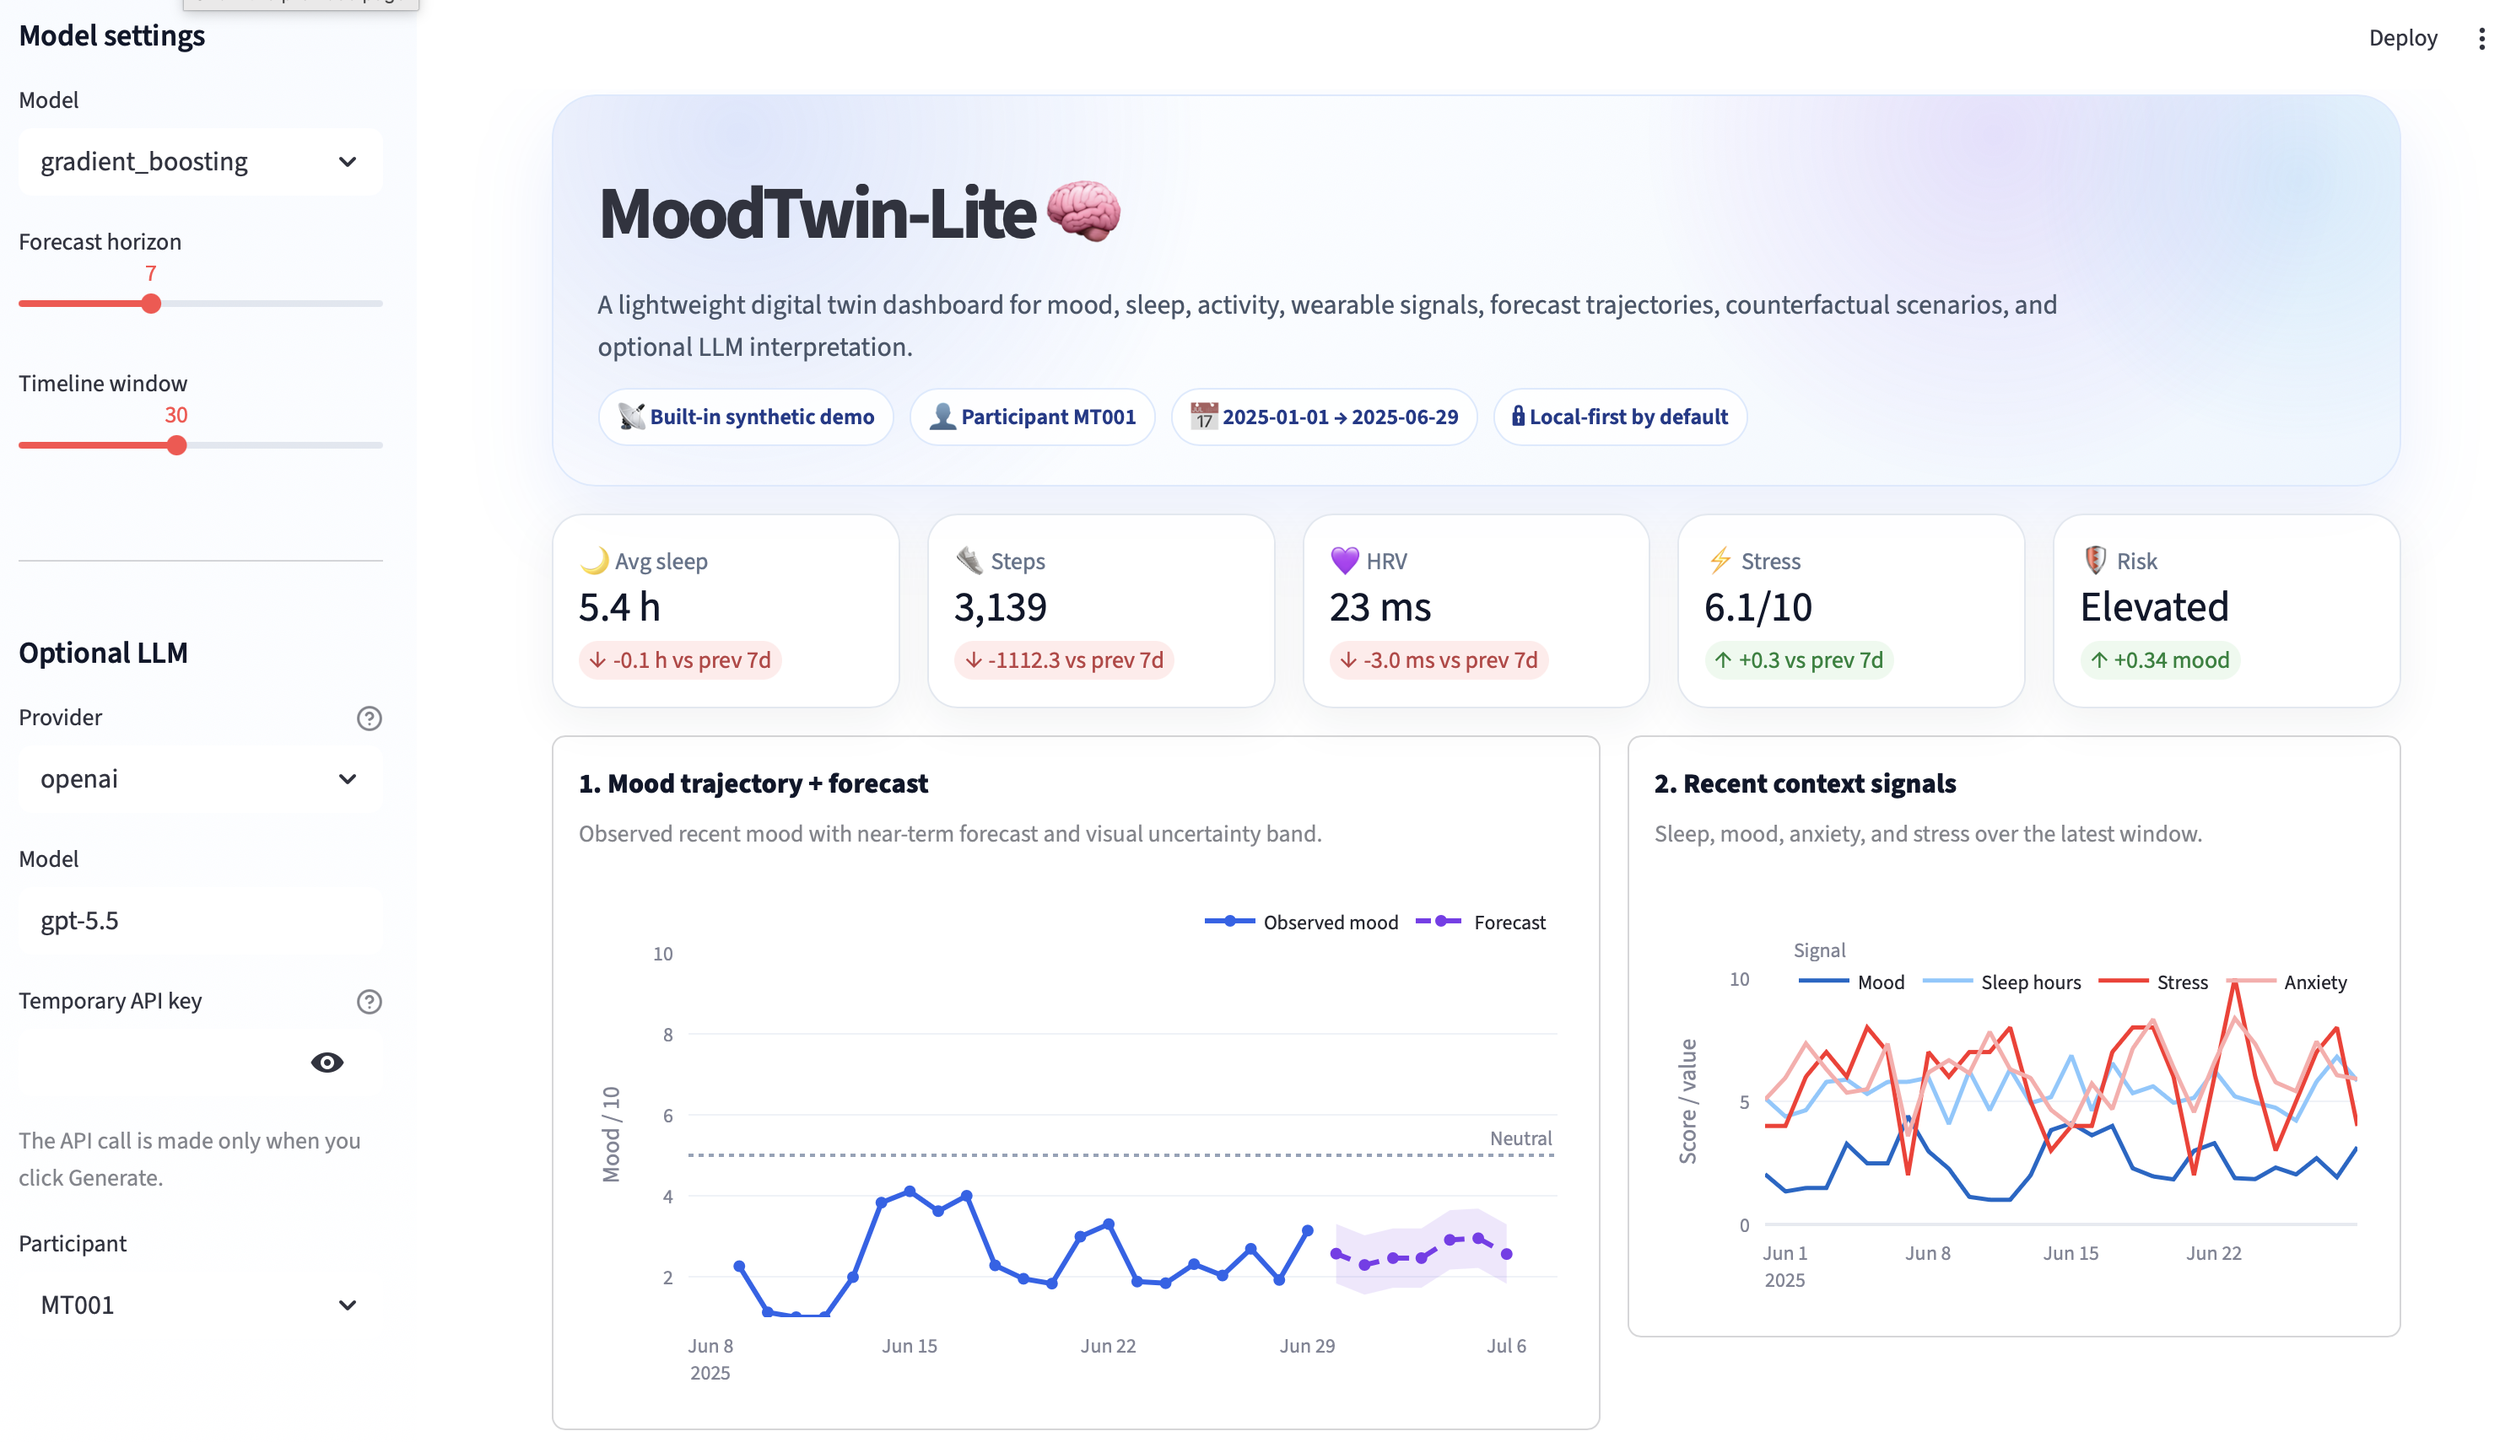
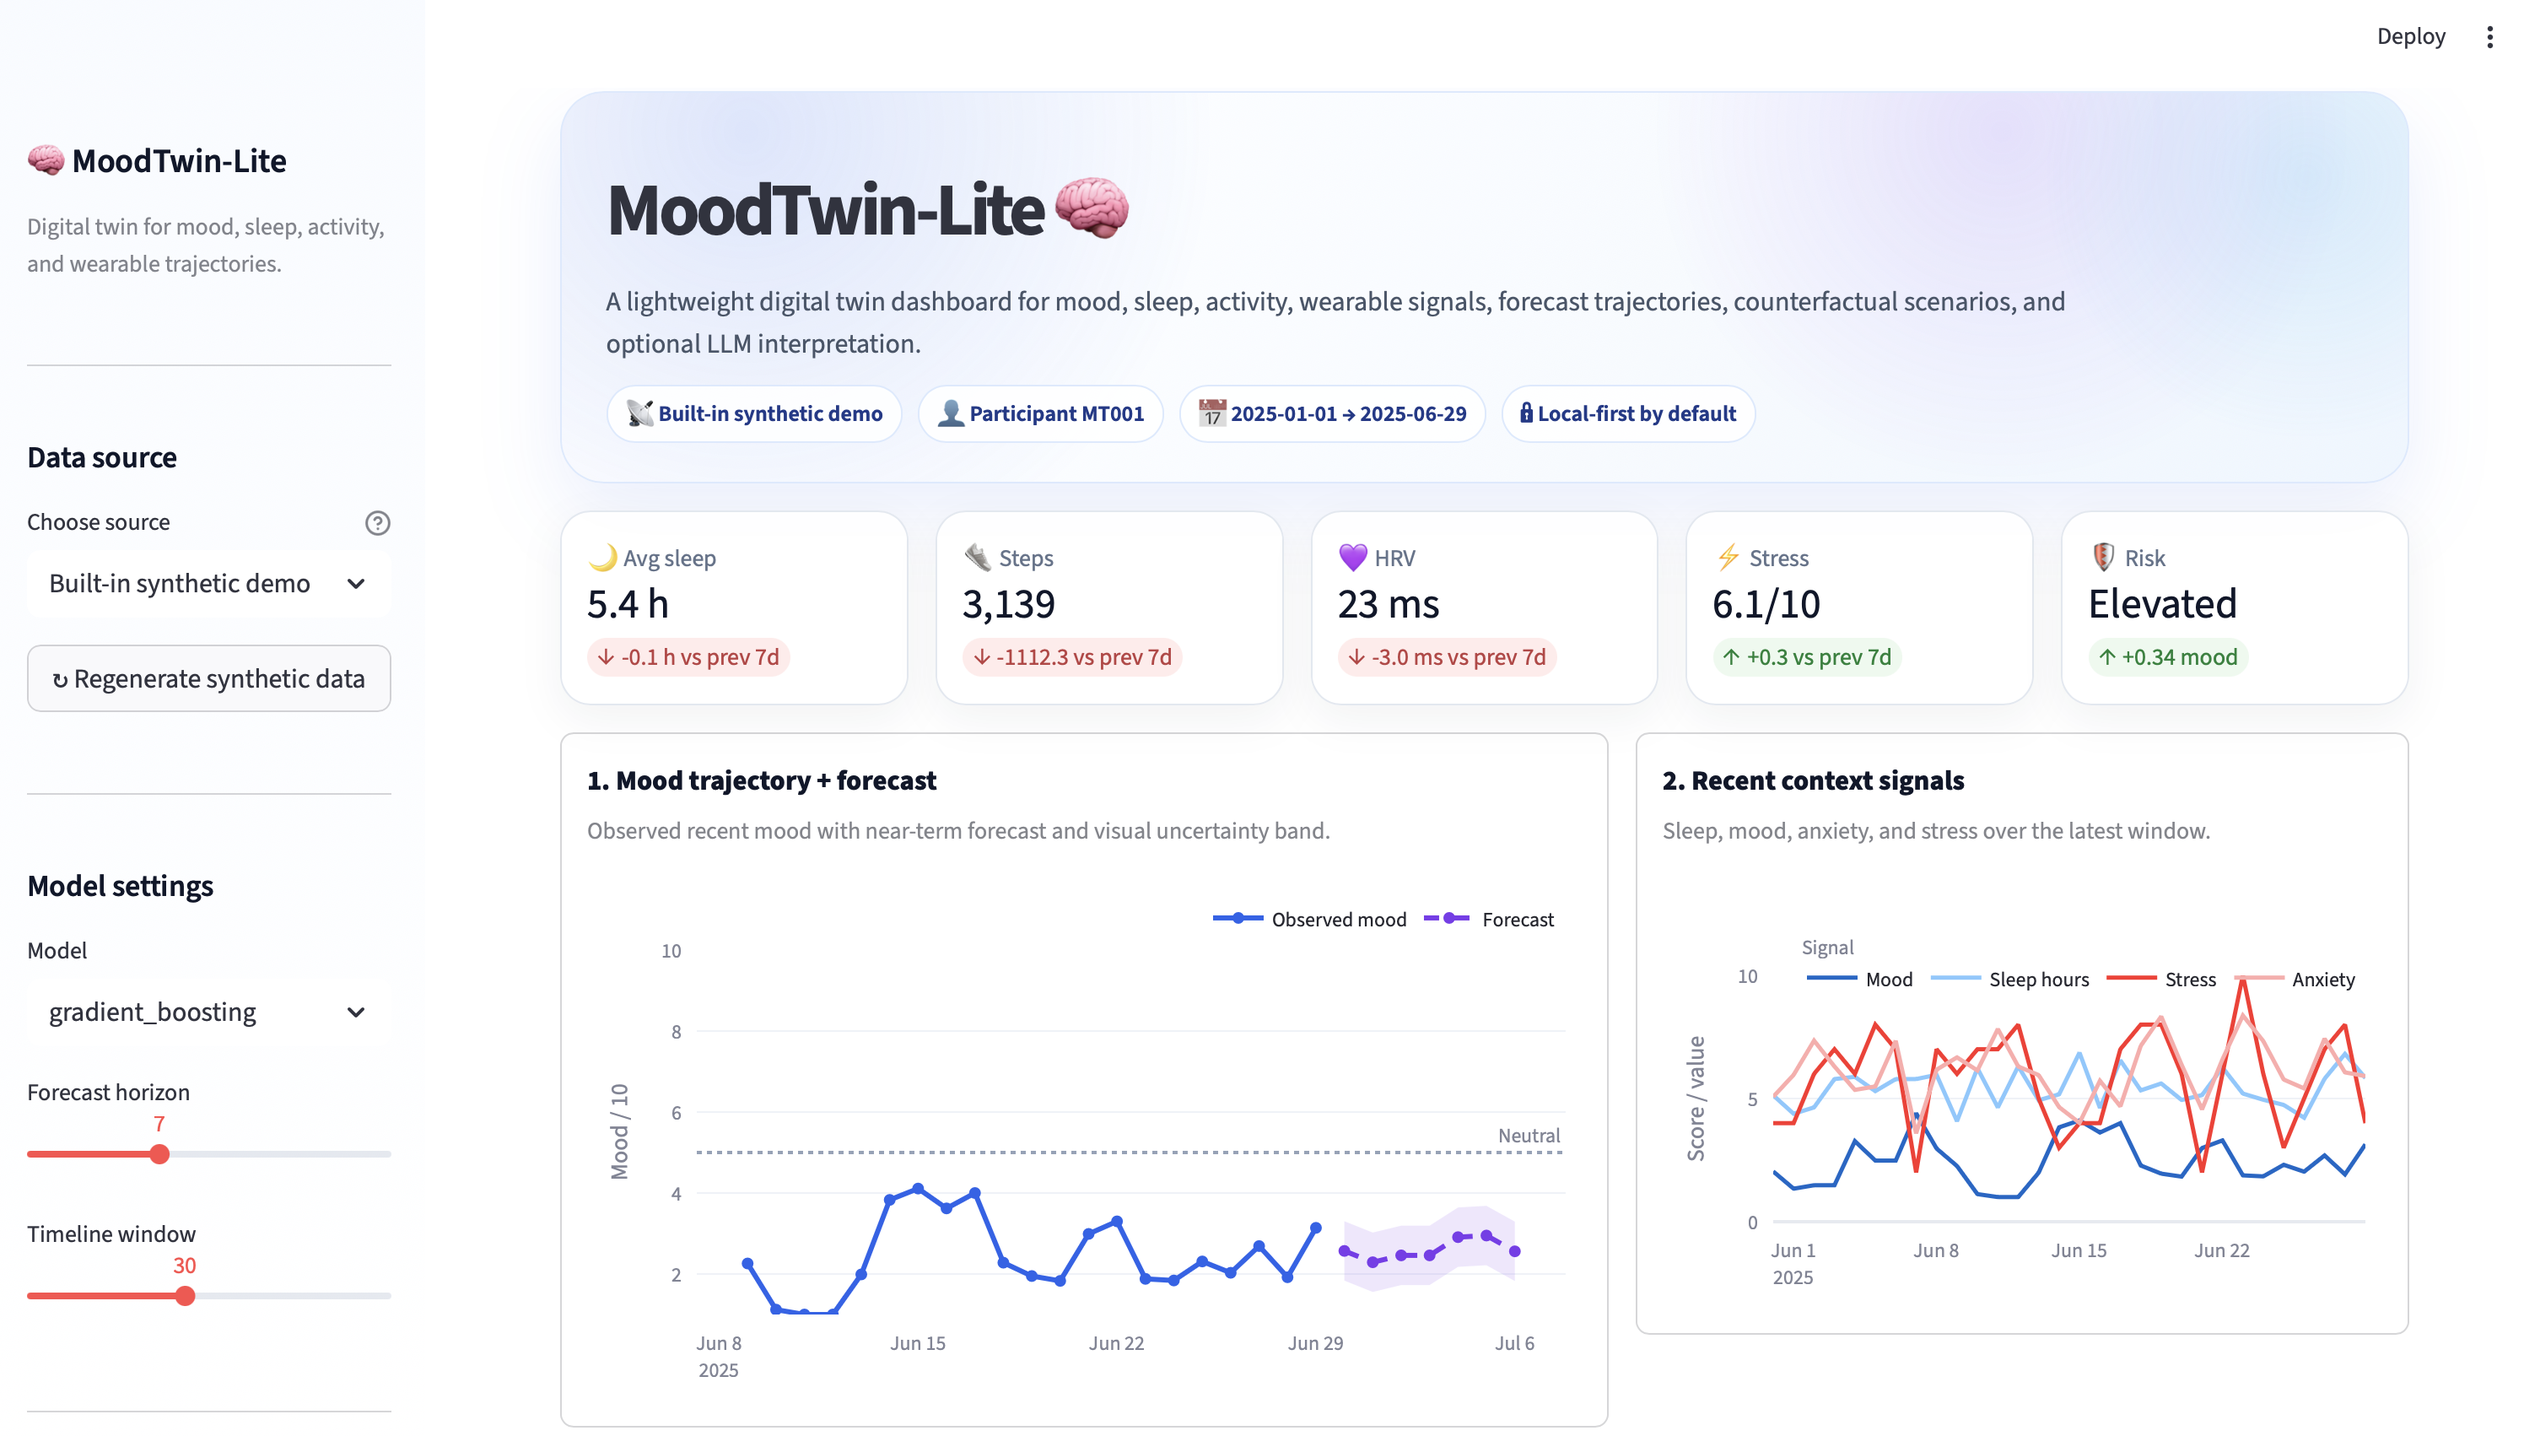
Update README screenshots

diff --git a/docs/IMPORT_GUIDE.md b/docs/IMPORT_GUIDE.md
@@ -25,6 +25,28 @@ Regenerate the realistic examples with:
 python scripts/generate_demo_exports.py
 ```
 
+
+## Upload from the Streamlit app
+
+You do not need to use the command line for personal files. In the sidebar, choose one of:
+
+```text
+Upload MoodTwin schema CSV
+Upload Oura daily CSV
+Upload Fitbit daily CSV/JSON
+Upload Apple Health export.xml
+```
+
+The dashboard analyzes the uploaded file immediately in the current session. For Oura, Fitbit, and Apple Health uploads, you can also upload an optional mood diary CSV. If you check **Save local copy in data/uploads/**, the app saves:
+
+```text
+data/uploads/<timestamp>_<source>_<hash>_raw.<ext>
+data/uploads/<timestamp>_<source>_<hash>_mood_diary.csv   # if provided
+data/uploads/<timestamp>_<source>_<hash>_moodtwin_schema.csv
+```
+
+`data/uploads/` is ignored by Git, so local personal data should not be committed accidentally. Still, always check `git status` before pushing.
+
 ## Mood diary template
 
 Wearables usually do not contain the target variable we want: daily mood. For personal experiments, add a small CSV:
